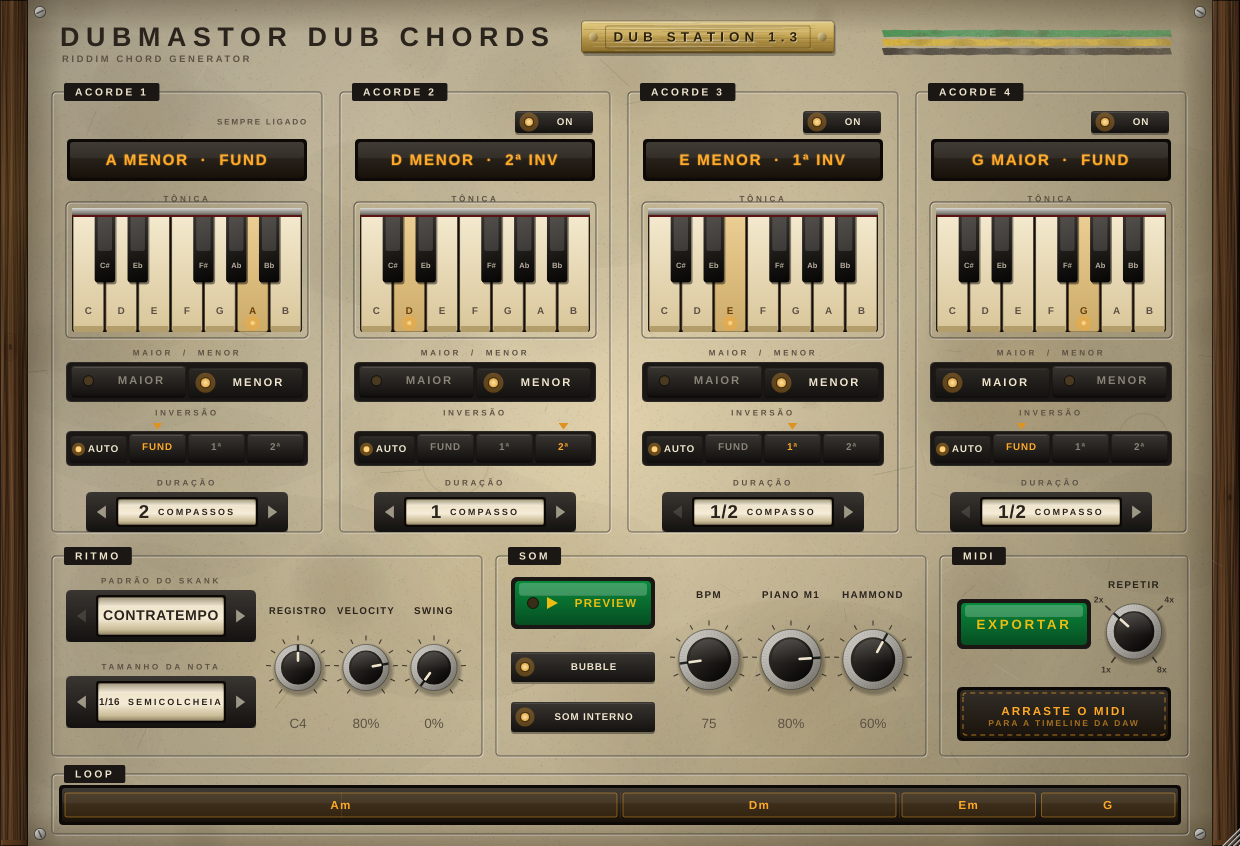
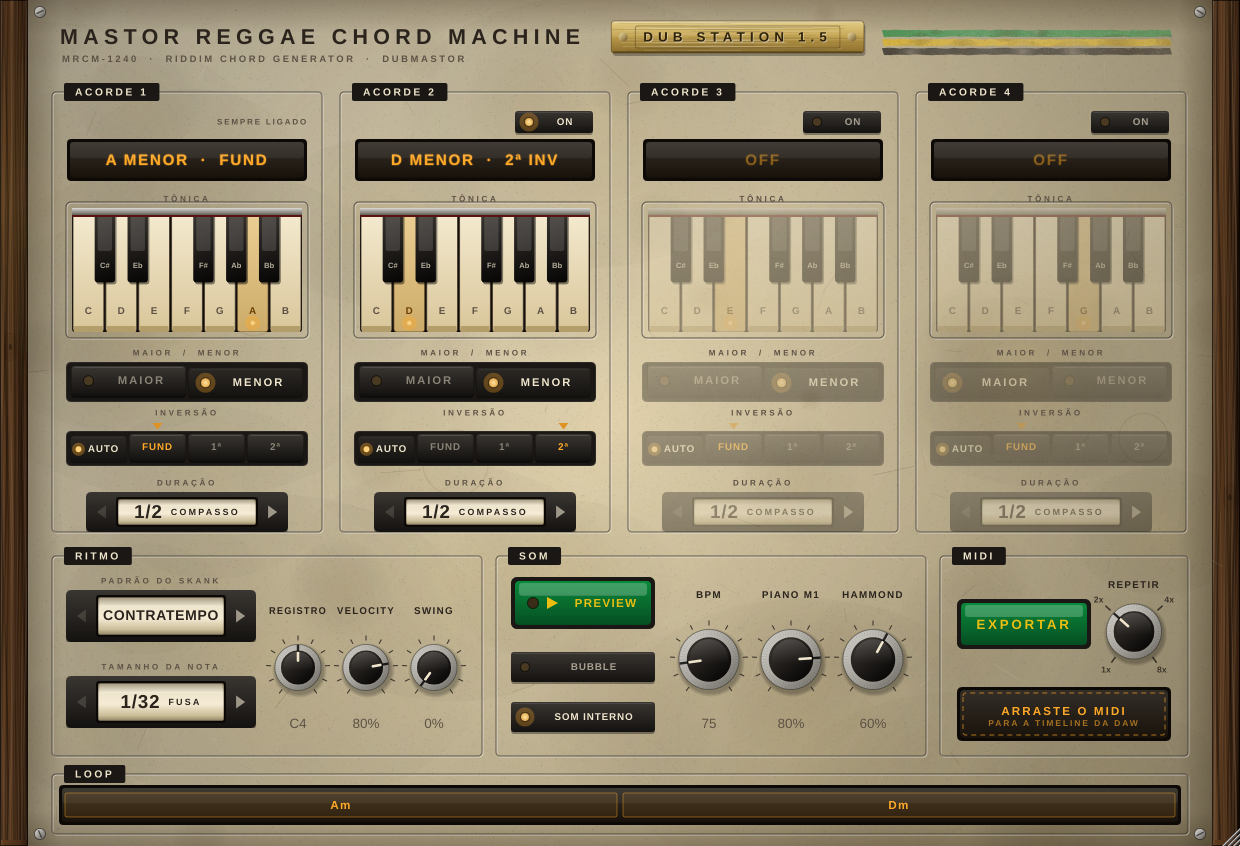
Mastor Reggae Chord Machine MRCM-1240 1.5 (antigo MDCM-404)
- novo nome em todo lugar: plugin/DAW, plaqueta, arquivos .vst3/.component,
  zips (MastorReggaeChordMachine-*), tag/release MRCM-1240-x.y, MIDI
  exportado, site e READMEs (mesmo código de plugin: projetos antigos abrem)
- configuração inicial: só os acordes 1 e 2 ligados (Am e Dm),
  1/2 compasso cada; acordes 3 e 4 desligados

Claude-Session: https://claude.ai/code/session_01DJAeyZPDTv7stazKYuM6cM

diff --git a/site/index.html b/site/index.html
@@ -4,9 +4,9 @@
 <meta charset="utf-8">
 <meta name="viewport" content="width=device-width, initial-scale=1">
 <title>DubMastor — Plugins de dub (VST3 / AU)</title>
-<meta name="description" content="Baixe os plugins DubMastor Big Knob, Dub Station 2.6, DubMastor Roots Keys, Mastor Dub Chords Machine, Mastor Reggae Dub Bass Instrument, Mastor Dub Drums Machine, Mastor Bass Machine e Mastor Fone — VST3 para Windows e Mac, AU para Mac. Grátis.">
+<meta name="description" content="Baixe os plugins DubMastor Big Knob, Dub Station 2.6, DubMastor Roots Keys, Mastor Reggae Chord Machine, Mastor Reggae Dub Bass Instrument, Mastor Dub Drums Machine, Mastor Bass Machine e Mastor Fone — VST3 para Windows e Mac, AU para Mac. Grátis.">
 <meta property="og:title" content="DubMastor — Plugins de dub">
-<meta property="og:description" content="Big Knob 3.2, Dub Station 2.6, DubMastor Roots Keys, Mastor Dub Chords Machine, Mastor Reggae Dub Bass Instrument MRDBI-07 1.5 e Mastor Fone: filtro estilo King Tubby, eco de fita, reverb de mola, piano M1, órgão Hammond, baixo de senoide e 808 e voz de rádio, telefone e megafone. VST3 / AU, Windows e Mac.">
+<meta property="og:description" content="Big Knob 3.2, Dub Station 2.6, DubMastor Roots Keys, Mastor Reggae Chord Machine, Mastor Reggae Dub Bass Instrument MRDBI-07 1.5 e Mastor Fone: filtro estilo King Tubby, eco de fita, reverb de mola, piano M1, órgão Hammond, baixo de senoide e 808 e voz de rádio, telefone e megafone. VST3 / AU, Windows e Mac.">
 <meta property="og:image" content="img/dubstation21.jpg">
 <style>
   @font-face { font-family: "Plate"; src: url("fonts/ArchivoBlack-Regular.ttf") format("truetype"); font-display: swap; }
@@ -266,9 +266,9 @@
         </article>
 
         <article class="card">
-          <img class="shot" src="img/dubchords.jpg" alt="Interface do Mastor Dub Chords Machine MDCM-404: painel creme com quatro módulos de acorde, cada um com display âmbar, teclado mecânico de uma oitava, botões maior e menor, seletor de inversão e contador de compassos; abaixo, seções de ritmo com padrão e tamanho da nota, som com botão preview, chaves bubble e som interno e níveis de piano e Hammond, MIDI e o visor do loop" width="1400" height="786" loading="lazy">
+          <img class="shot" src="img/dubchords.jpg" alt="Interface do Mastor Reggae Chord Machine MRCM-1240: painel creme com quatro módulos de acorde, cada um com display âmbar, teclado mecânico de uma oitava, botões maior e menor, seletor de inversão e contador de compassos; abaixo, seções de ritmo com padrão e tamanho da nota, som com botão preview, chaves bubble e som interno e níveis de piano e Hammond, MIDI e o visor do loop" width="1400" height="786" loading="lazy">
           <div class="body">
-            <h3>Mastor Dub Chords Machine MDCM-404 <small>1.4</small></h3>
+            <h3>Mastor Reggae Chord Machine MRCM-1240 <small>1.5</small></h3>
             <p>Gerador de harmonia para começar um riddim: escolha até 4 acordes e quantos compassos cada um dura, e o skank sai pronto no andamento da DAW.</p>
             <ul>
               <li>Teclado mecânico para a tônica, botões MAIOR / MENOR e contador de compassos (de 1/2 a 8)</li>
@@ -279,8 +279,8 @@
             </ul>
             <div class="formats">Instrumento / gerador MIDI · Windows: VST3 + standalone · Mac: VST3, AU + standalone (Intel e Apple Silicon)</div>
             <div class="dl">
-              <a class="btn" href="https://github.com/dubmastor/DubMastor-DubStation-/releases/download/MDCM-404-1.4/MastorDubChordsMachine-Windows.zip">⬇ Windows<span>VST3 · zip</span></a>
-              <a class="btn alt" href="https://github.com/dubmastor/DubMastor-DubStation-/releases/download/MDCM-404-1.4/MastorDubChordsMachine-macOS.zip">⬇ Mac<span>VST3 + AU · zip</span></a>
+              <a class="btn" href="https://github.com/dubmastor/DubMastor-DubStation-/releases/download/MRCM-1240-1.5/MastorReggaeChordMachine-Windows.zip">⬇ Windows<span>VST3 · zip</span></a>
+              <a class="btn alt" href="https://github.com/dubmastor/DubMastor-DubStation-/releases/download/MRCM-1240-1.5/MastorReggaeChordMachine-macOS.zip">⬇ Mac<span>VST3 + AU · zip</span></a>
             </div>
           </div>
         </article>
@@ -391,7 +391,7 @@
 xattr -dr com.apple.quarantine ~/Library/Audio/Plug-Ins/VST3/"FitaEco TE-12.vst3"
 xattr -dr com.apple.quarantine ~/Library/Audio/Plug-Ins/VST3/"DubMastor Roots Keys.vst3"
 xattr -dr com.apple.quarantine ~/Library/Audio/Plug-Ins/VST3/"Mastor Fone.vst3"
-xattr -dr com.apple.quarantine ~/Library/Audio/Plug-Ins/VST3/"Mastor Dub Chords Machine MDCM-404.vst3"
+xattr -dr com.apple.quarantine ~/Library/Audio/Plug-Ins/VST3/"Mastor Reggae Chord Machine MRCM-1240.vst3"
 xattr -dr com.apple.quarantine ~/Library/Audio/Plug-Ins/VST3/"Mastor Reggae Dub Bass Instrument MRDBI-07.vst3"
 xattr -dr com.apple.quarantine ~/Library/Audio/Plug-Ins/VST3/"Mastor Dub Drums Machine MDDM-12.vst3"
 xattr -dr com.apple.quarantine ~/Library/Audio/Plug-Ins/VST3/"Mastor Bass Machine MBM-710.vst3"</pre></li>

diff --git a/DubChords/Source/PluginEditor.cpp b/DubChords/Source/PluginEditor.cpp
@@ -570,7 +570,7 @@ void MidiDragZone::mouseDrag (const juce::MouseEvent&)
 {
     if (dragging) return;
     dragging = true;
-    auto file = juce::File::getSpecialLocation (juce::File::tempDirectory).getChildFile ("MDCM-404 riddim.mid");
+    auto file = juce::File::getSpecialLocation (juce::File::tempDirectory).getChildFile ("MRCM-1240 riddim.mid");
     if (proc.writeMidiFile (file))
         juce::DragAndDropContainer::performExternalDragDropOfFiles (juce::StringArray (file.getFullPathName()), false, this);
 }
@@ -690,7 +690,7 @@ bool DubChordsPanel::slotEnabled (int i) const
 
 void DubChordsPanel::exportMidi()
 {
-    auto dir = juce::File::getSpecialLocation (juce::File::userDocumentsDirectory).getChildFile ("Mastor Dub Chords Machine");
+    auto dir = juce::File::getSpecialLocation (juce::File::userDocumentsDirectory).getChildFile ("Mastor Reggae Chord Machine");
     dir.createDirectory();
     chooser = std::make_unique<juce::FileChooser> ("Salvar riddim em MIDI", dir.getChildFile ("riddim.mid"), "*.mid");
     chooser->launchAsync (juce::FileBrowserComponent::saveMode
@@ -703,7 +703,7 @@ void DubChordsPanel::exportMidi()
                               if (! f.hasFileExtension ("mid")) f = f.withFileExtension ("mid");
                               if (! proc.writeMidiFile (f))
                                   juce::AlertWindow::showMessageBoxAsync (juce::MessageBoxIconType::WarningIcon,
-                                                                          "Mastor Dub Chords Machine", juce::String::fromUTF8 ("N\xc3\xa3o foi poss\xc3\xadvel salvar o MIDI."));
+                                                                          "Mastor Reggae Chord Machine", juce::String::fromUTF8 ("N\xc3\xa3o foi poss\xc3\xadvel salvar o MIDI."));
                           });
 }
 
@@ -880,7 +880,7 @@ void DubChordsPanel::renderBackground()
 
     // --- cabeçalho
     g.setColour (colours::ink);
-    const juce::String title ("MASTOR DUB CHORDS MACHINE");
+    const juce::String title ("MASTOR REGGAE CHORD MACHINE");
     {   // nome comprido: diminui a fonte se o título + a placa de latão não couberem antes das faixas da bandeira
         float fs = 30.0f;
         const float maxW = (float) plate.getWidth() - 330.0f - 32.0f - 26.0f - 260.0f;
@@ -937,7 +937,7 @@ void DubChordsPanel::renderBackground()
     }
     g.setColour (colours::inkSoft);
     g.setFont (stencil (10.5f, 0.25f));
-    g.drawText (juce::String::fromUTF8 ("MDCM-404  \xc2\xb7  RIDDIM CHORD GENERATOR  \xc2\xb7  DUBMASTOR"), plate.getX() + 34, 52, 600, 14, juce::Justification::left);
+    g.drawText (juce::String::fromUTF8 ("MRCM-1240  \xc2\xb7  RIDDIM CHORD GENERATOR  \xc2\xb7  DUBMASTOR"), plate.getX() + 34, 52, 600, 14, juce::Justification::left);
 
     {   // faixas da bandeira da Jamaica, pintadas à mão e envelhecidas
         const float sx = (float) plate.getRight() - 330.0f, sw = 290.0f, sh = 7.0f;

diff --git a/DubChords/Source/PluginProcessor.cpp b/DubChords/Source/PluginProcessor.cpp
@@ -27,7 +27,7 @@ juce::AudioProcessorValueTreeState::ParameterLayout DubChordsProcessor::createLa
     // Progressão padrão: Am (1 comp.) | Dm (1 comp.); acordes 3 (Em) e 4 (G) desligados
     const int  defRoot[numSlots] = { 9, 2, 4, 7 };
     const int  defQual[numSlots] = { dub::Min, dub::Min, dub::Min, dub::Maj };
-    const int  defDur [numSlots] = { 1, 1, 1, 1 };            // 1 compasso cada
+    const int  defDur [numSlots] = { 0, 0, 0, 0 };            // 1/2 compasso cada
     const bool defOn  [numSlots] = { true, true, false, false };
 
     for (int i = 0; i < numSlots; ++i)
@@ -335,9 +335,9 @@ bool DubChordsProcessor::writeMidiFile (const juce::File& file) const
     meta.addEvent (juce::MidiMessage::timeSignatureMetaEvent (4, 4), 0.0);
 
     auto trackName = [] (const juce::String& n) { return juce::MidiMessage::textMetaEvent (3, n); };
-    skank.addEvent  (trackName ("MDCM-404 - Skank (piano)"), 0.0);
-    bubble.addEvent (trackName ("MDCM-404 - Bubble (orgao)"), 0.0);
-    bass.addEvent   (trackName ("MDCM-404 - Baixo guia"), 0.0);
+    skank.addEvent  (trackName ("MRCM-1240 - Skank (piano)"), 0.0);
+    bubble.addEvent (trackName ("MRCM-1240 - Bubble (orgao)"), 0.0);
+    bass.addEvent   (trackName ("MRCM-1240 - Baixo guia"), 0.0);
 
     // marcadores com o nome de cada acorde (aparecem na régua/marker track da DAW)
     const auto slots = getSlots();

diff --git a/DubChords/Source/PluginProcessor.h b/DubChords/Source/PluginProcessor.h
@@ -20,7 +20,7 @@ public:
     juce::AudioProcessorEditor* createEditor() override;
     bool hasEditor() const override { return true; }
 
-    const juce::String getName() const override { return "Mastor Dub Chords Machine MDCM-404"; }
+    const juce::String getName() const override { return "Mastor Reggae Chord Machine MRCM-1240"; }
     bool acceptsMidi() const override  { return true; }
     bool producesMidi() const override { return true; }
     bool isMidiEffect() const override { return false; }

diff --git a/DubChords/Source/DubSynth.h b/DubChords/Source/DubSynth.h
@@ -1,4 +1,4 @@
-// Som interno do Mastor Dub Chords Machine (MDCM-404): os mesmos timbres do Dub Station Roots Keys
+// Som interno do Mastor Reggae Chord Machine (MRCM-1240): os mesmos timbres do Dub Station Roots Keys
 //  - skank (canal 1): piano estilo Korg M1 com chorus estéreo
 //  - bubble (canal 3): órgão tonewheel estilo Hammond B3 no preset "Roots Percussion" do
 //    Roots Keys: drawbars 888000000, percussão na 3ª harmônica (rápida, single-trigger),

diff --git a/DubChords/tests/snapshot.cpp b/DubChords/tests/snapshot.cpp
@@ -1,4 +1,4 @@
-// Renderiza a interface do Mastor Dub Chords Machine (MDCM-404) num PNG (sem DAW):
+// Renderiza a interface do Mastor Reggae Chord Machine (MRCM-1240) num PNG (sem DAW):
 //   cmake -B build-snap -DDUBCHORDS_SNAPSHOT=ON && cmake --build build-snap --target DubChordsSnapshot
 //   ./build-snap/DubChordsSnapshot_artefacts/Release/DubChordsSnapshot docs/interface.png [4] [escala]
 #include <juce_audio_utils/juce_audio_utils.h>

diff --git a/DubChords/Source/DubEngine.h b/DubChords/Source/DubEngine.h
@@ -1,4 +1,4 @@
-// Mastor Dub Chords Machine (MDCM-404) — motor de harmonia (C++ puro, sem JUCE, testável isoladamente)
+// Mastor Reggae Chord Machine (MRCM-1240) — motor de harmonia (C++ puro, sem JUCE, testável isoladamente)
 //  - skank de piano "com as duas mãos": a mesma inversão em duas oitavas (canal 1)
 //  - bubble de órgão uma oitava abaixo do skank (canal 3)
 #pragma once

diff --git a/README.md b/README.md
@@ -19,7 +19,7 @@ bubble, já alinhados, de 4 a 64 compassos) para a timeline. Um projeto começa 
 | **Mastor Riddim Machine MRM-0420 1.1** | Instrumento / gerador MIDI: Dub Chords + MDDM-12 num só, em abas (HARMONIA e BATERIA), com PLAY RIDDIM, BPM ligado e ARRASTE O RIDDIM com bateria, skank e bubble alinhados (os acordes entram depois da intro) | [⬇ macOS](https://github.com/dubmastor/DubMastor-DubStation-/releases/download/MRM-0420-1.1/MRM-0420-macOS.zip) | [⬇ Windows](https://github.com/dubmastor/DubMastor-DubStation-/releases/download/MRM-0420-1.1/MRM-0420-Windows.zip) | [RiddimMachine/](RiddimMachine/) |
 | **DubMastor Big Knob 3.2** | Estação de dub: filtro big knob estilo King Tubby (com bypass), eco de fita com cabeçotes, presets de EQ e liga/desliga, sirene de dub, VUs e maximizer | [⬇ macOS](https://github.com/dubmastor/DubMastor-DubStation-/releases/latest/download/DubMastorBigKnob-macOS.zip) | [⬇ Windows](https://github.com/dubmastor/DubMastor-DubStation-/releases/latest/download/DubMastorBigKnob-Windows.zip) | [BigKnob/](BigKnob/) |
 | **DubMastor Roots Keys 2.3** | Instrumento: piano estilo Korg M1 e órgão estilo Hammond com Leslie, eco de fita FitaEco, flanger dub, maximizer, VUs e teclado que acende com o MIDI; aba **Dub Chords** com acordes de duas mãos (6 notas) para montar o riddim e arrastar o MIDI para a DAW; visual de teclado anos 80 no piano e de madeira e marfim no órgão | [⬇ macOS](https://github.com/dubmastor/DubMastor-DubStation-/releases/download/RootsKeys-2.3/DubMastorRootsKeys-macOS.zip) | [⬇ Windows](https://github.com/dubmastor/DubMastor-DubStation-/releases/download/RootsKeys-2.3/DubMastorRootsKeys-Windows.zip) | [RootsKeys/](RootsKeys/) |
-| **Mastor Dub Chords Machine MDCM-404 1.4** | Instrumento / gerador MIDI: escolha até 4 acordes (teclado mecânico, maior/menor, inversões com sugestão automática, contador de compassos) e ele toca o skank de piano M1 com as duas mãos e o bubble de Hammond no andamento da DAW; arraste o MIDI colorido por acorde para a timeline | [⬇ macOS](https://github.com/dubmastor/DubMastor-DubStation-/releases/download/MDCM-404-1.4/MastorDubChordsMachine-macOS.zip) | [⬇ Windows](https://github.com/dubmastor/DubMastor-DubStation-/releases/download/MDCM-404-1.4/MastorDubChordsMachine-Windows.zip) | [DubChords/](DubChords/) |
+| **Mastor Reggae Chord Machine MRCM-1240 1.5** | Instrumento / gerador MIDI: escolha até 4 acordes (teclado mecânico, maior/menor, inversões com sugestão automática, contador de compassos) e ele toca o skank de piano M1 com as duas mãos e o bubble de Hammond no andamento da DAW; arraste o MIDI colorido por acorde para a timeline | [⬇ macOS](https://github.com/dubmastor/DubMastor-DubStation-/releases/download/MRCM-1240-1.5/MastorReggaeChordMachine-macOS.zip) | [⬇ Windows](https://github.com/dubmastor/DubMastor-DubStation-/releases/download/MRCM-1240-1.5/MastorReggaeChordMachine-Windows.zip) | [DubChords/](DubChords/) |
 | **Mastor Reggae Dub Bass Instrument MRDBI-07 1.5** | Instrumento (antigo Dub Bass): baixo de reggae Bass (senoide), Super Tone (digital King Jammy) ou 808, envelope gráfico, saturação com válvula animada ou fita de rolo, EQ editável na tela, reverb, bass boost em 60 Hz, teclado C1–C4 e maximizer com VU digital estilo Ozone | [⬇ macOS](https://github.com/dubmastor/DubMastor-DubStation-/releases/download/MRDBI-07-1.5/MastorReggaeDubBassInstrument-macOS.zip) | [⬇ Windows](https://github.com/dubmastor/DubMastor-DubStation-/releases/download/MRDBI-07-1.5/MastorReggaeDubBassInstrument-Windows.zip) | [DubBass/](DubBass/) |
 | **Mastor Dub Drums Machine MDDM-12 1.3** | Instrumento / gerador MIDI: esqueleto da bateria de reggae (Rockers, One Drop) e Boom Bap, com caixa no 2 e no 4 e bumbo/caixa editáveis por colcheia, com chave de baterista (Style Scott, Santa Davis, Carlton Barrett) com a assinatura de hi-hat e as viradas de cada um, caixa/aro, virada de intro, kit anos 70 ou digital (King Jammy / Sleng Teng), MIDI colorido por compasso e mapa de notas | [⬇ macOS](https://github.com/dubmastor/DubMastor-DubStation-/releases/download/MDDM-12-1.3/MastorDubDrumsMachine-macOS.zip) | [⬇ Windows](https://github.com/dubmastor/DubMastor-DubStation-/releases/download/MDDM-12-1.3/MastorDubDrumsMachine-Windows.zip) | [DubDrums/](DubDrums/) |
 | **Mastor Bass Machine MBM-710 2.3** | Instrumento / gerador de reggae bass lines em MIDI: botoeira com 7 baixistas (Family Man, Flabba, Derrick Barnett, Robbie, Leroy Sibbles, Fully Fullwood, Jammys/Sleng Teng) sobre até 4 acordes; preview com os timbres do Dub Bass (Roots Sine e Super Tone), bateria de acompanhamento (Roots, One Drop, Digital, Dancehall) e teclado do Roots Keys; arraste o MIDI para a timeline | [⬇ macOS](https://github.com/dubmastor/DubMastor-DubStation-/releases/download/BassMachine-2.3/MastorBassMachine-macOS.zip) | [⬇ Windows](https://github.com/dubmastor/DubMastor-DubStation-/releases/download/BassMachine-2.3/MastorBassMachine-Windows.zip) | [BassMachine/](BassMachine/) |
@@ -41,7 +41,7 @@ Todos os downloads ficam na página de **[Releases](https://github.com/dubmastor
    xattr -dr com.apple.quarantine ~/Library/Audio/Plug-Ins/VST3/"FitaEco TE-12.vst3"
    xattr -dr com.apple.quarantine ~/Library/Audio/Plug-Ins/VST3/"DubMastor Roots Keys.vst3"
    xattr -dr com.apple.quarantine ~/Library/Audio/Plug-Ins/VST3/"Mastor Fone.vst3"
-   xattr -dr com.apple.quarantine ~/Library/Audio/Plug-Ins/VST3/"Mastor Dub Chords Machine MDCM-404.vst3"
+   xattr -dr com.apple.quarantine ~/Library/Audio/Plug-Ins/VST3/"Mastor Reggae Chord Machine MRCM-1240.vst3"
    xattr -dr com.apple.quarantine ~/Library/Audio/Plug-Ins/VST3/"Mastor Reggae Dub Bass Instrument MRDBI-07.vst3"
    xattr -dr com.apple.quarantine ~/Library/Audio/Plug-Ins/VST3/"Mastor Dub Drums Machine MDDM-12.vst3"
    xattr -dr com.apple.quarantine ~/Library/Audio/Plug-Ins/VST3/"Mastor Bass Machine MBM-710.vst3"
@@ -66,7 +66,7 @@ BigKnob/                         DubMastor Big Knob (C++ / JUCE 8)
 DubStation21/                    Dub Station 2.6 — FitaEco TE-12 (C++ / JUCE 8)
 RootsKeys/                       DubMastor Roots Keys — piano M1 + órgão Hammond + Dub Chords (C++ / JUCE 8)
 MastorFone/                      Mastor Fone — rádio AM, telefone e megafone para voz (C++ / JUCE 8)
-DubChords/                       Mastor Dub Chords Machine MDCM-404 — gerador de skank/harmonia para riddim (C++ / JUCE 8)
+DubChords/                       Mastor Reggae Chord Machine MRCM-1240 — gerador de skank/harmonia para riddim (C++ / JUCE 8)
 DubBass/                         Mastor Reggae Dub Bass Instrument MRDBI-07 — baixo de reggae Bass / Super Tone / 808 (C++ / JUCE 8)
 DubDrums/                        Mastor Dub Drums Machine MDDM-12 — gerador de bateria de reggae com bateria interna (C++ / JUCE 8)
 BassMachine/                     Mastor Bass Machine MBM-710 — gerador de reggae bass lines (preview com Dub Bass, Mastor Dub Drums Machine e Roots Keys) (C++ / JUCE 8)
@@ -77,7 +77,7 @@ RiddimMachine/                   Mastor Riddim Machine MRM-0420 — Dub Chords +
   build-dubstation21.yml         compila, valida e publica o Dub Station 2.6
   build-rootskeys.yml            compila, valida e publica o DubMastor Roots Keys
   build-mastorfone.yml           compila, valida e publica o Mastor Fone
-  build-dubchords.yml            compila, valida e publica o MDCM-404
+  build-dubchords.yml            compila, valida e publica o MRCM-1240
   build-dubbass.yml              testa, compila, valida e publica o MRDBI-07 (release MRDBI-07-x.y a cada versão)
   build-dubdrums.yml             testa, compila, valida e publica o MDDM-12 (release MDDM-12-x.y a cada versão)
   build-bassmachine.yml          testa, compila, valida e publica o Bass Machine (release BassMachine-x.y a cada versão)

diff --git a/DubChords/README.md b/DubChords/README.md
@@ -1,12 +1,12 @@
-# Mastor Dub Chords Machine MDCM-404 1.4
+# Mastor Reggae Chord Machine MRCM-1240 1.5
 
 ← [Voltar para a página inicial do repositório](../README.md)
 
-**[⬇ Windows](https://github.com/dubmastor/DubMastor-DubStation-/releases/download/MDCM-404-1.4/MastorDubChordsMachine-Windows.zip)** · **[⬇ macOS](https://github.com/dubmastor/DubMastor-DubStation-/releases/download/MDCM-404-1.4/MastorDubChordsMachine-macOS.zip)**
+**[⬇ Windows](https://github.com/dubmastor/DubMastor-DubStation-/releases/download/MRCM-1240-1.5/MastorReggaeChordMachine-Windows.zip)** · **[⬇ macOS](https://github.com/dubmastor/DubMastor-DubStation-/releases/download/MRCM-1240-1.5/MastorReggaeChordMachine-macOS.zip)**
 
-![Interface do Mastor Dub Chords Machine MDCM-404](docs/interface.png)
+![Interface do Mastor Reggae Chord Machine MRCM-1240](docs/interface.png)
 
-(Antes se chamava **DubMastor Dub Chords**; a partir da 1.4 é o **Mastor Dub Chords Machine MDCM-404**.)
+(Antes se chamava **DubMastor Dub Chords** e, na 1.4, **Mastor Dub Chords Machine MDCM-404**; a partir da 1.5 é o **Mastor Reggae Chord Machine MRCM-1240**.)
 
 Gerador de harmonia para começar a programar um riddim de reggae. Você escolhe até 4 acordes e quanto
 tempo cada um dura, e o plugin toca o skank de piano **com as duas mãos** (o acorde em duas oitavas) e o
@@ -22,7 +22,7 @@ carregue numa *Instrument Track*.
 | **MAIOR / MENOR** | Dois botões de pressão intertravados |
 | **INVERSÃO** | **AUTO** (padrão) escolhe sozinho a inversão com as notas mais próximas do acorde anterior; **FUND**, **1ª** e **2ª** fixam a inversão. A **seta âmbar** sempre marca a inversão sugerida, mesmo quando você escolhe outra |
 | **DURAÇÃO** | Janela de contador: **1/2 compasso**, 1, 2, 3, 4 ou 8 compassos. Clique à direita para aumentar, à esquerda para diminuir |
-| **ON** (acordes 2, 3 e 4) | Liga/desliga o acorde no loop. O acorde 1 fica sempre ligado. Ao abrir, só os acordes 1 e 2 vêm ligados, com 1 compasso cada |
+| **ON** (acordes 2, 3 e 4) | Liga/desliga o acorde no loop. O acorde 1 fica sempre ligado. Ao abrir, só os acordes 1 e 2 vêm ligados (Am e Dm), com **1/2 compasso** cada |
 
 O display âmbar mostra o acorde e a inversão que está tocando (ex.: "D MENOR · 2ª INV"). Os acordes ligados formam o loop, que se repete sozinho
 e aparece no visor **LOOP** com o cursor de reprodução. O plugin escolhe a inversão mais próxima do acorde
@@ -47,11 +47,11 @@ anterior (condução de vozes), inclusive do último acorde para o primeiro, par
 ## MIDI
 - **ARRASTE O MIDI:** clique e arraste a área âmbar para a timeline. Vêm duas faixas (skank e bubble), no BPM do projeto, com o nome de cada acorde como marcador.
 - **Cada acorde em uma cor:** no arquivo, as notas do acorde 1 vão no canal MIDI 1, as do acorde 2 no canal 2, e assim por diante. Na DAW, peça para colorir as notas por canal: no Cubase, no Key Editor, **Cores › Canal**; no REAPER, *Color notes by channel*; no FL Studio as cores já vêm separadas.
-- **EXPORTAR:** salva o `.mid` (padrão: Documentos/Mastor Dub Chords Machine). **REPETIR** exporta o loop 1, 2, 4 ou 8 vezes.
+- **EXPORTAR:** salva o `.mid` (padrão: Documentos/Mastor Reggae Chord Machine). **REPETIR** exporta o loop 1, 2, 4 ou 8 vezes.
 - **MIDI ao vivo:** o plugin também manda as notas como MIDI para outros instrumentos: canal 1 = skank, canal 3 = bubble.
 
 ## Para desenvolvedores
-- **Versão:** muda só em `CMakeLists.txt` (`project(DubChords VERSION x.y.z)`). Ela aparece na plaqueta do plugin, e cada push na `main` publica a release **Mastor Dub Chords Machine MDCM-404 x.y** (tag `MDCM-404-x.y`) com as notas de `RELEASE_NOTES.md`. Lembre de atualizar os links `MDCM-404-x.y` no site e nos READMEs.
+- **Versão:** muda só em `CMakeLists.txt` (`project(DubChords VERSION x.y.z)`). Ela aparece na plaqueta do plugin, e cada push na `main` publica a release **Mastor Reggae Chord Machine MRCM-1240 x.y** (tag `MRCM-1240-x.y`) com as notas de `RELEASE_NOTES.md`. Lembre de atualizar os links `MRCM-1240-x.y` no site e nos READMEs.
 - `Source/DubEngine.h`: lógica da harmonia (C++ puro). É aqui que se adiciona padrão novo.
 - `Source/PluginProcessor.*`: parâmetros, sincronia com a DAW, saída MIDI, exportação.
 - `Source/PluginEditor.*`: interface (LookAndFeel do Big Knob + teclado, botões e contadores clicáveis).

diff --git a/DubChords/RELEASE_NOTES.md b/DubChords/RELEASE_NOTES.md
@@ -1,17 +1,13 @@
-## Mastor Dub Chords Machine MDCM-404 1.4 🟢🟡⚫
+## Mastor Reggae Chord Machine MRCM-1240 1.5 🟢🟡⚫
 
-- **Novo nome:** o DubMastor Dub Chords agora é o **Mastor Dub Chords Machine MDCM-404** (no plugin, na DAW, nos arquivos e no MIDI exportado). Os projetos antigos do Cubase continuam abrindo com ele. Apague o `DubMastor Dub Chords.vst3` antigo da pasta VST3 para não ficar com os dois
-- **Novo timbre do bubble:** no PREVIEW e no som interno, o bubble agora usa o Hammond **Roots Percussion** do Roots Keys (drawbars 888000000 com percussão na 3ª harmônica), com ataque mais seco e marcado
-- **Novos padrões ao abrir o plugin:**
-  - **TAMANHO DA NOTA** começa em **1/32**
-  - Só os **acordes 1 e 2** vêm ligados (Am e Dm), com **1 compasso** cada
-  - **BUBBLE** vem desligado
+- **Novo nome:** o plugin agora se chama **Mastor Reggae Chord Machine MRCM-1240** (no plugin, na DAW, nos arquivos e no MIDI exportado). Os projetos antigos do Cubase continuam abrindo com ele. Apague da pasta VST3 os arquivos antigos (`Mastor Dub Chords Machine MDCM-404.vst3` e/ou `DubMastor Dub Chords.vst3`) para não ficar com dois
+- **Configuração inicial:** ao abrir o plugin, só os **acordes 1 e 2** vêm ligados (Am e Dm), com **1/2 compasso** cada. Os acordes 3 e 4 vêm desligados
 
-Continua tudo da 1.3: inversões AUTO / FUND / 1ª / 2ª com a sugestão de notas mais próximas, skank de piano M1 com as duas mãos, bubble de Hammond uma oitava abaixo, PREVIEW e MIDI com cada acorde em um canal (cor).
+Continua tudo da 1.4: bubble com o Hammond Roots Percussion, tamanho da nota começando em 1/32, bubble desligado ao abrir, inversões AUTO / FUND / 1ª / 2ª com a sugestão de notas mais próximas, skank de piano M1 com as duas mãos, PREVIEW e MIDI com cada acorde em um canal (cor).
 
 É um instrumento: no Cubase, carregue numa *Instrument Track*.
 
 No Mac, depois de copiar o `.vst3`:
 ```
-xattr -dr com.apple.quarantine ~/Library/Audio/Plug-Ins/VST3/"Mastor Dub Chords Machine MDCM-404.vst3"
+xattr -dr com.apple.quarantine ~/Library/Audio/Plug-Ins/VST3/"Mastor Reggae Chord Machine MRCM-1240.vst3"
 ```
